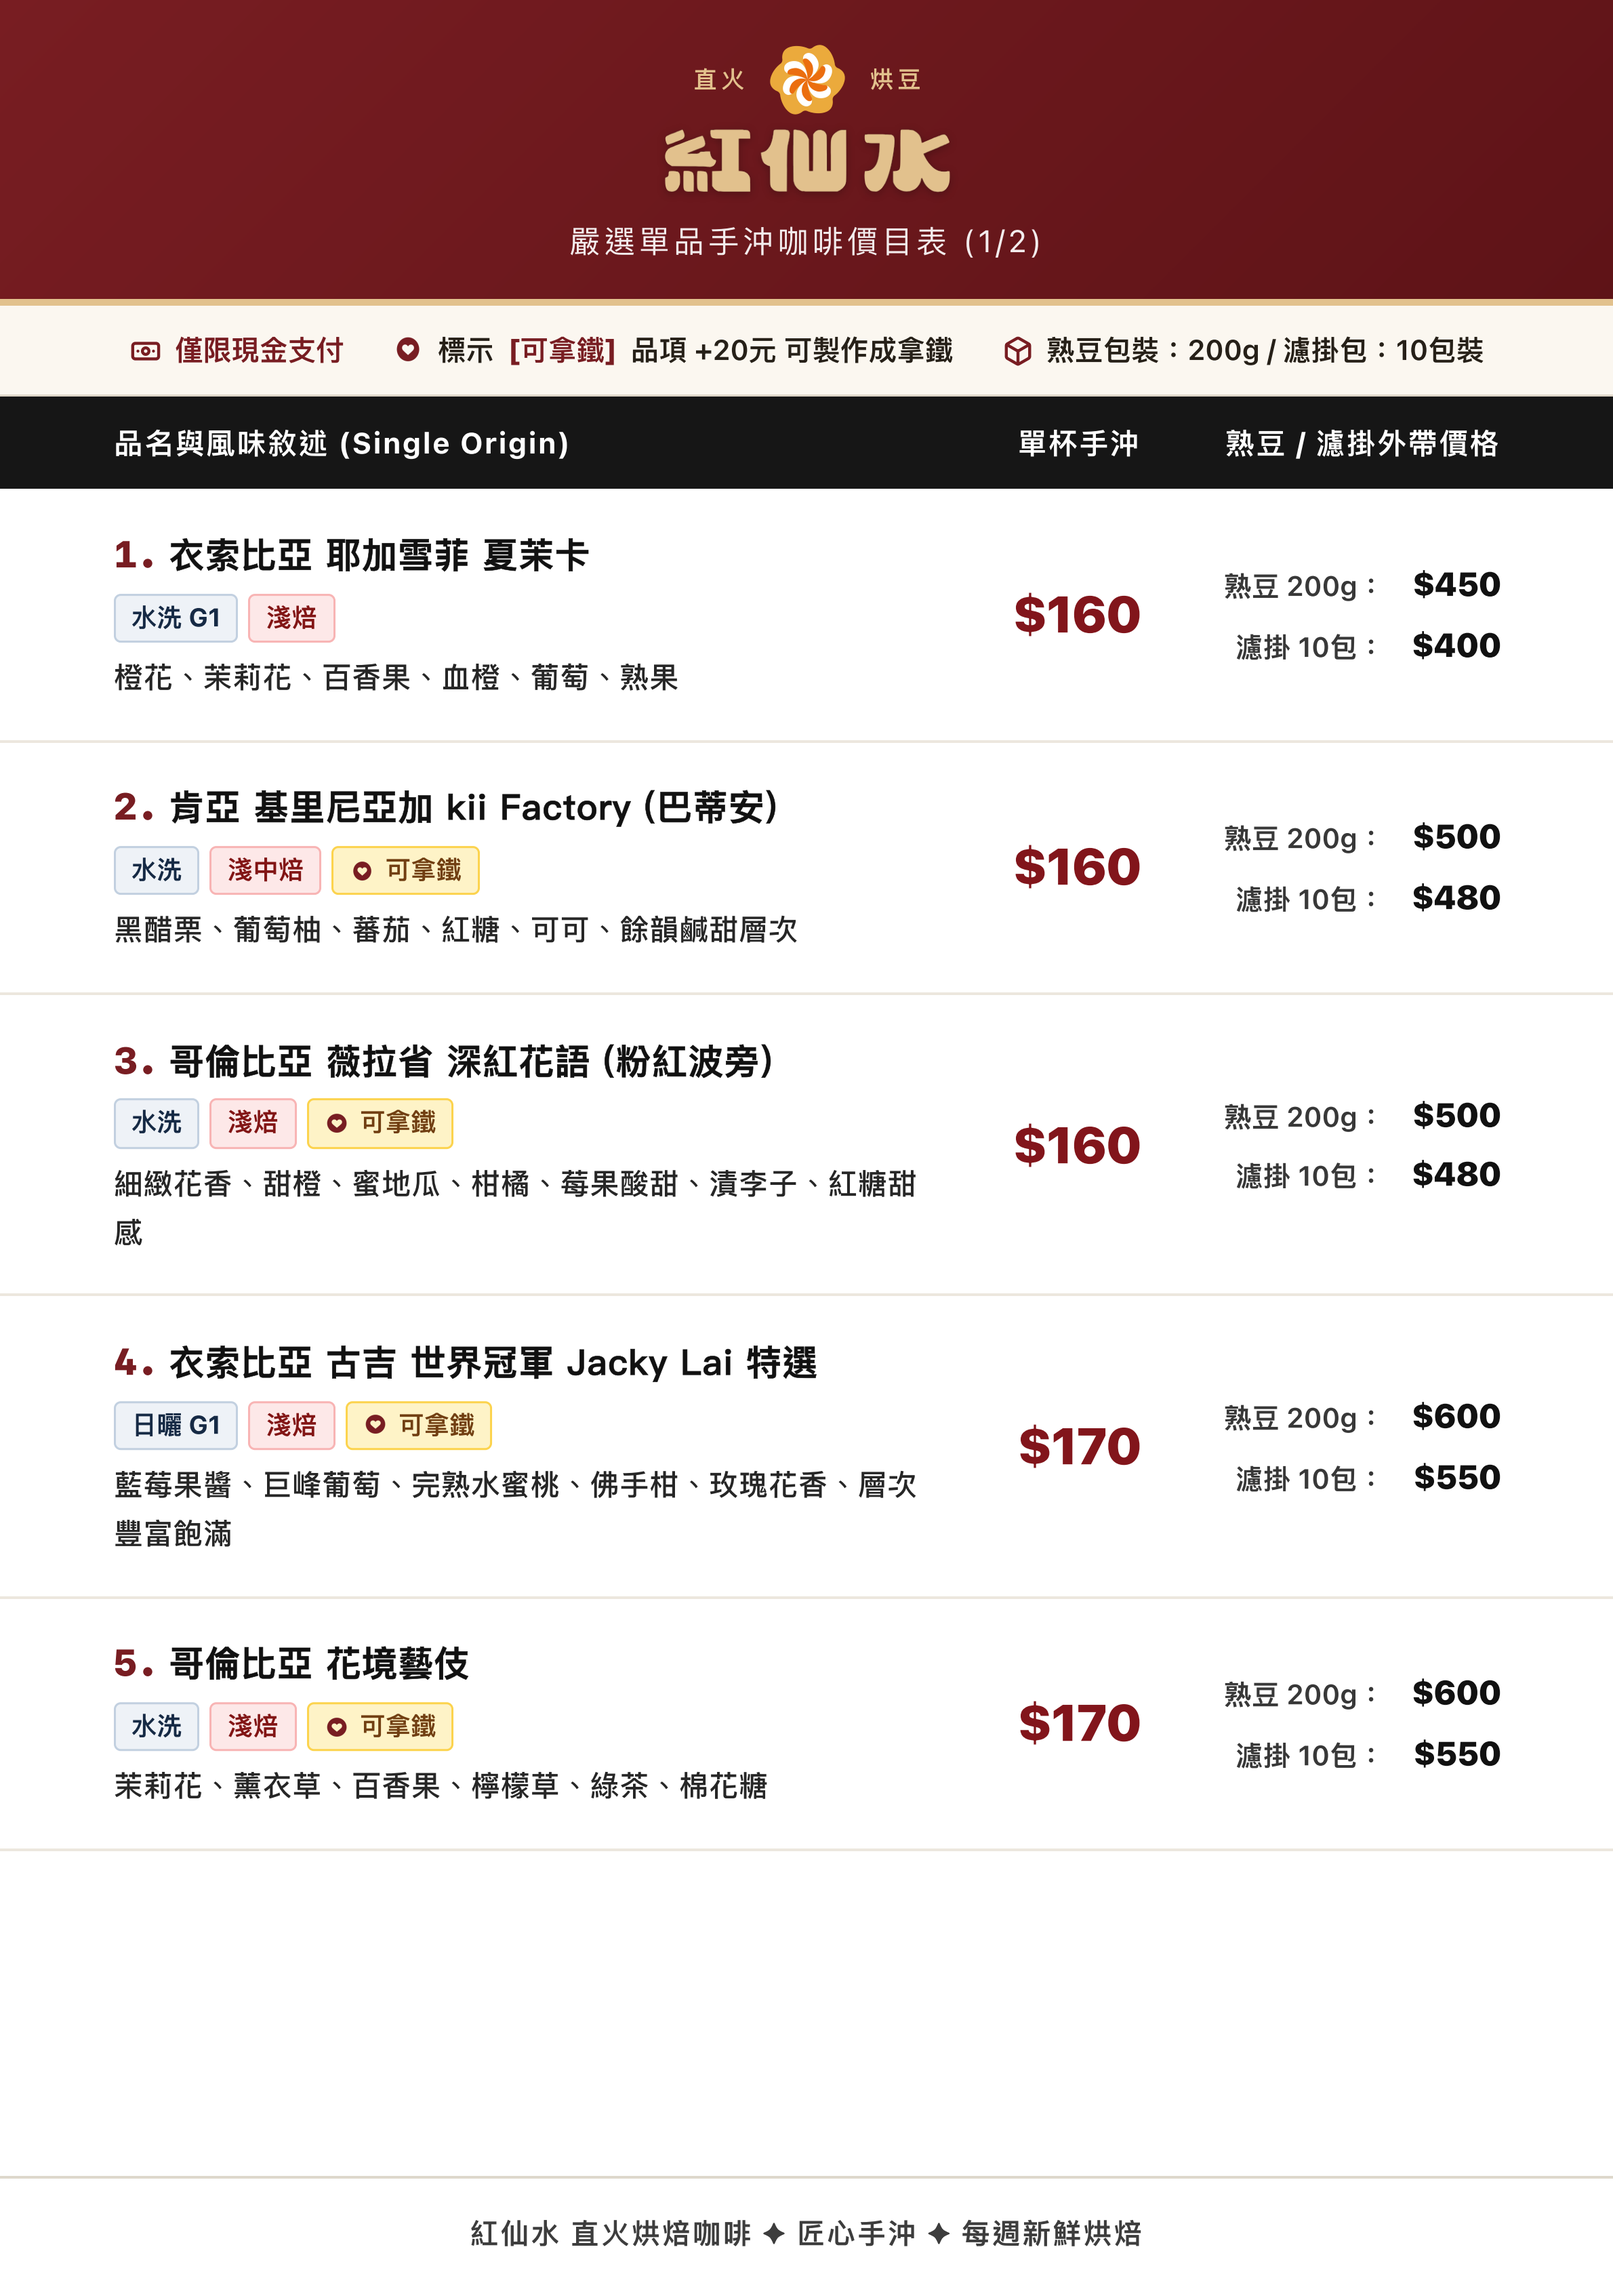
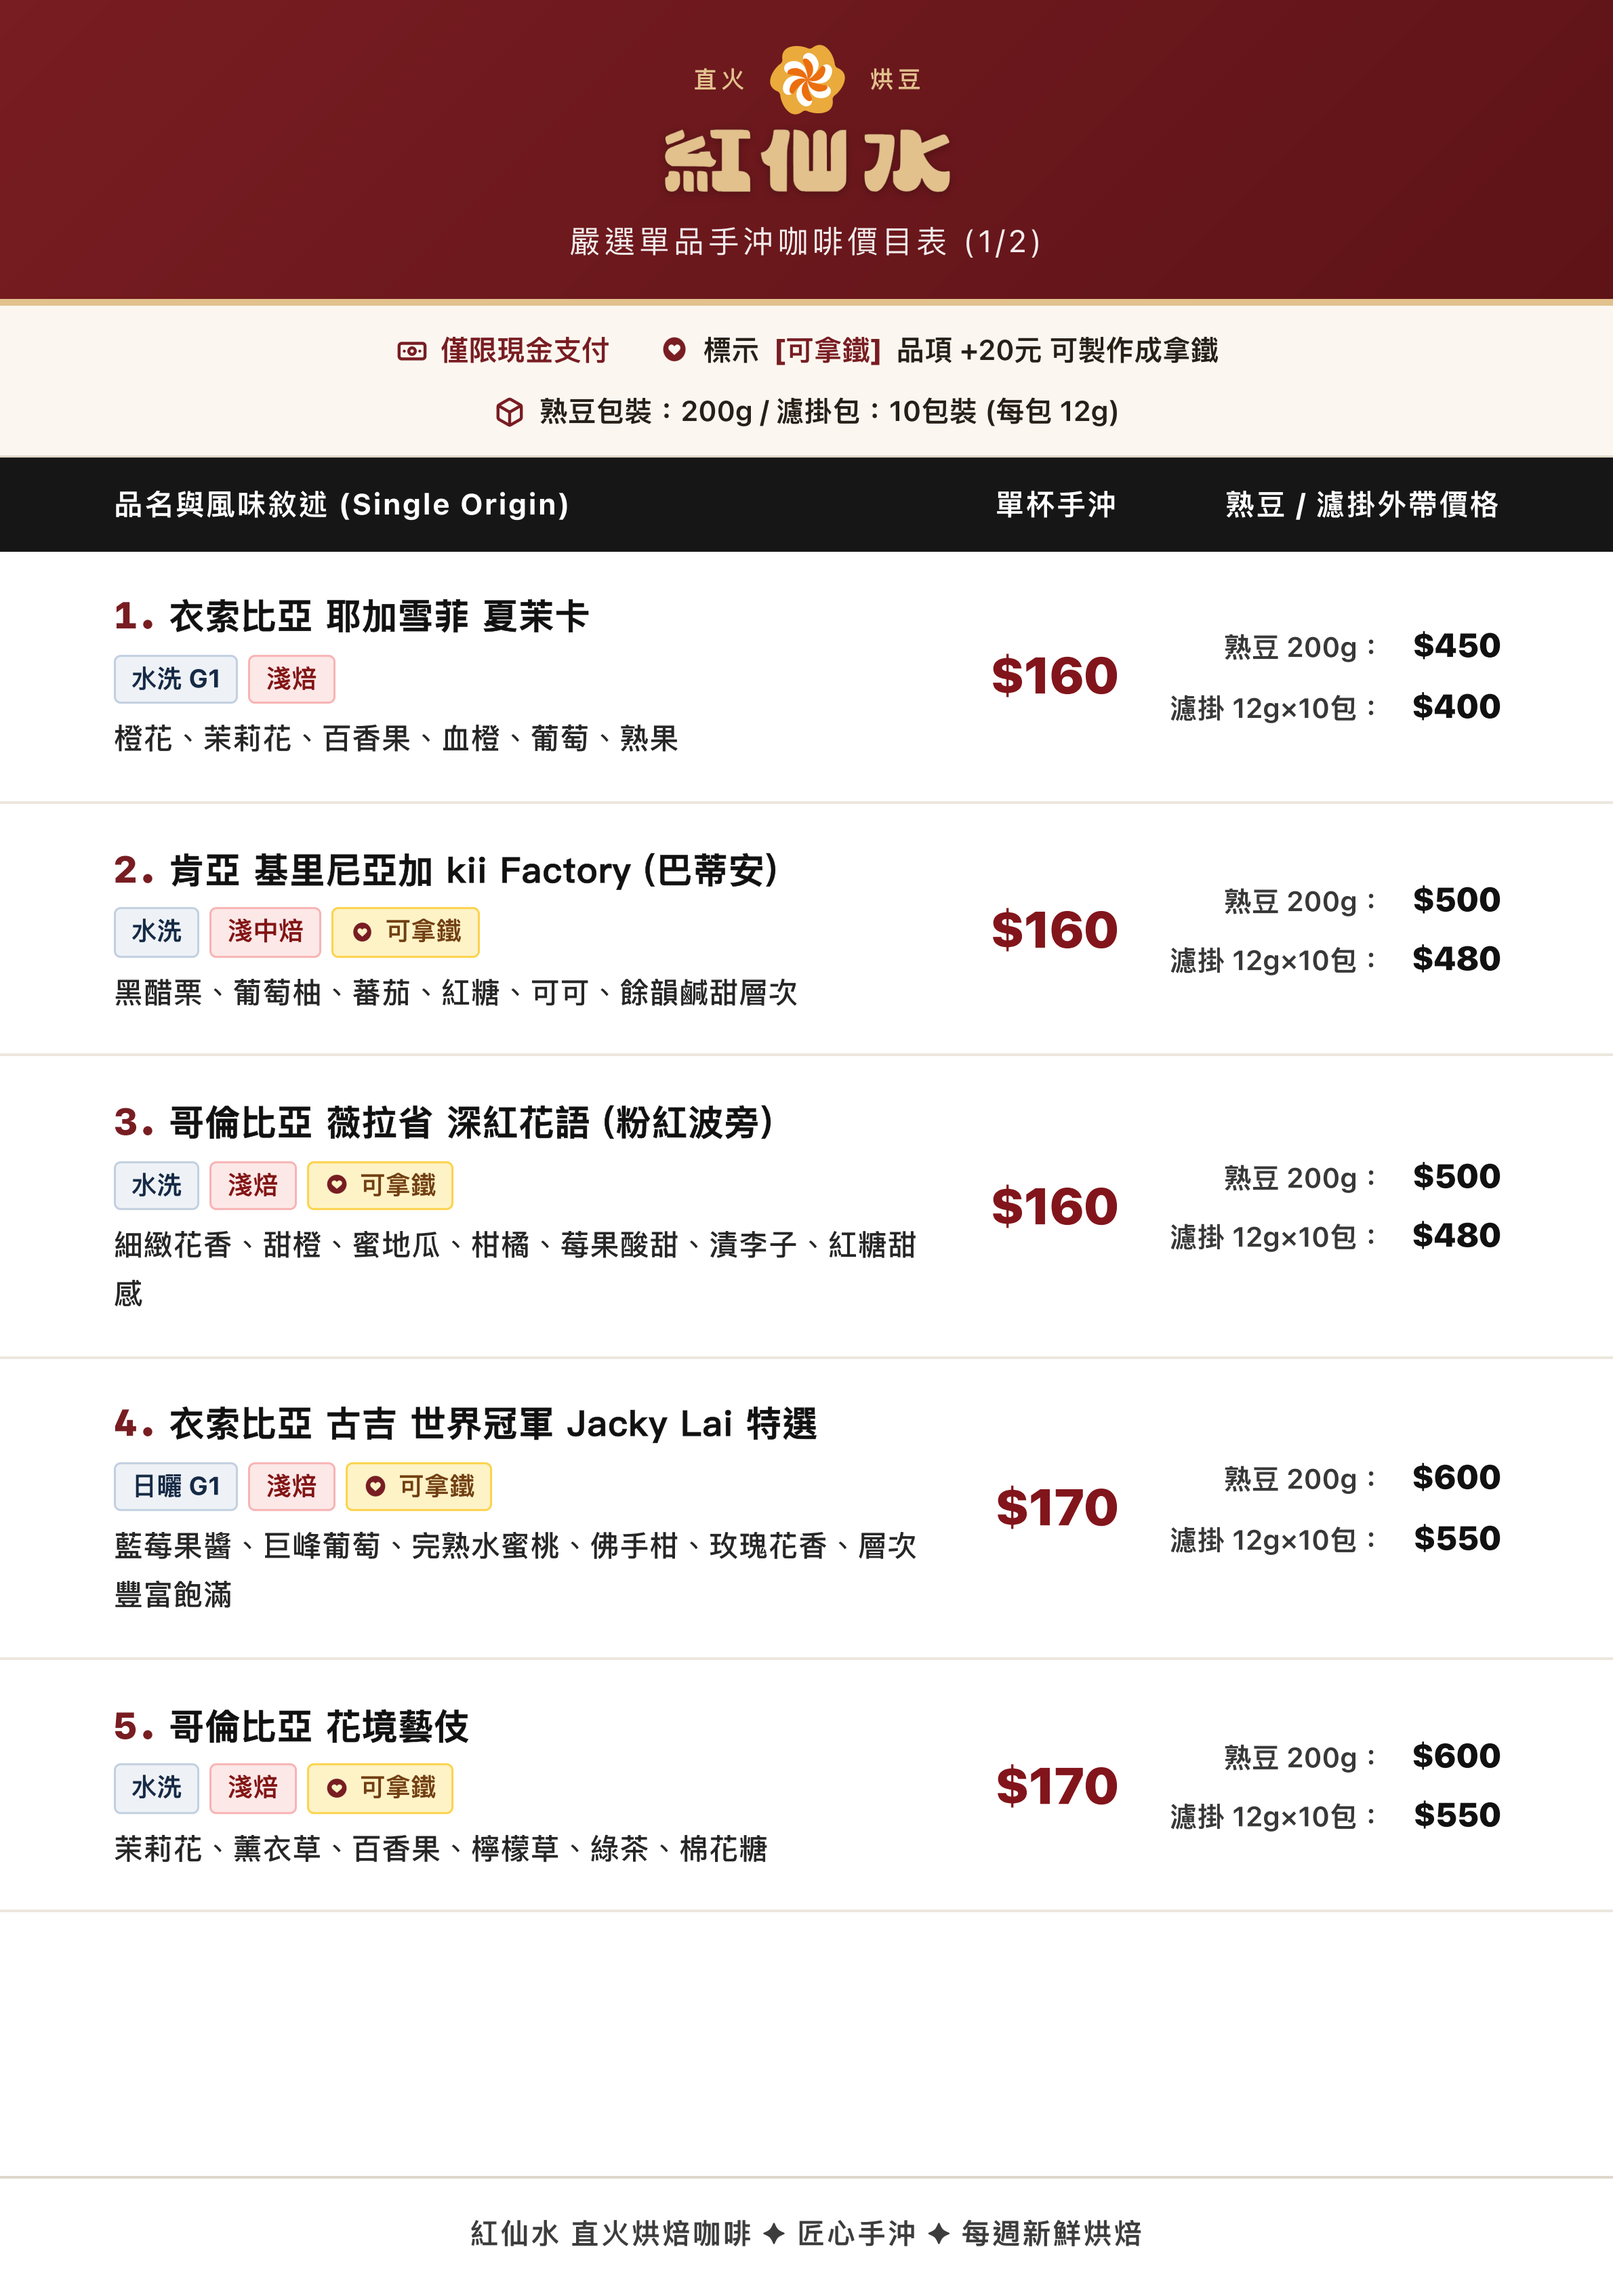
feat(layout): add 12g drip label and rebalance 3-column spacing (72px/168px/gap 20px)

diff --git a/index.html b/index.html
@@ -482,7 +482,7 @@
                 <span class="hybrid-pkg-val">$${item.beansPrice200g}</span>
               </div>
               <div class="hybrid-pkg-row">
-                <span class="hybrid-pkg-label">濾掛 10包</span>
+                <span class="hybrid-pkg-label">濾掛 12g×10包</span>
                 <span class="hybrid-pkg-val">$${item.dripPrice10pk}</span>
               </div>
             </div>
@@ -647,7 +647,7 @@
                   <span class="pkg-val">$${item.beansPrice200g}</span>
                 </div>
                 <div class="pkg-row">
-                  <span class="pkg-label">濾掛 10包：</span>
+                  <span class="pkg-label">濾掛 12g×10包：</span>
                   <span class="pkg-val">$${item.dripPrice10pk}</span>
                 </div>
               </div>
@@ -728,7 +728,7 @@
                   <span class="pkg-val">$${item.beansPrice200g}</span>
                 </div>
                 <div class="pkg-row">
-                  <span class="pkg-label">濾掛 10包：</span>
+                  <span class="pkg-label">濾掛 12g×10包：</span>
                   <span class="pkg-val">$${item.dripPrice10pk}</span>
                 </div>
               </div>
@@ -754,7 +754,7 @@
         <section class="notice-bar">
           <div class="notice-item"><svg class="notice-icon" viewBox="0 0 24 24" fill="none" stroke="currentColor" stroke-width="2.2" stroke-linecap="round" stroke-linejoin="round" aria-hidden="true" focusable="false"><rect x="2" y="6" width="20" height="12" rx="2"/><circle cx="12" cy="12" r="2.5"/><path d="M6 12h.01M18 12h.01"/></svg> <span class="notice-badge">僅限現金支付</span></div>
           <div class="notice-item"><img src="./assets/badge_heart_wine.png" class="wine-notice-heart-icon" alt="愛心" aria-hidden="true"> 標示 <span class="notice-badge">[可拿鐵]</span> 品項 +20元 可製作成拿鐵</div>
-          <div class="notice-item"><svg class="notice-icon" viewBox="0 0 24 24" fill="none" stroke="currentColor" stroke-width="2.2" stroke-linecap="round" stroke-linejoin="round" aria-hidden="true" focusable="false"><path d="M21 16V8a2 2 0 0 0-1-1.73l-7-4a2 2 0 0 0-2 0l-7 4A2 2 0 0 0 3 8v8a2 2 0 0 0 1 1.73l7 4a2 2 0 0 0 2 0l7-4A2 2 0 0 0 21 16z"/><polyline points="3.27 6.96 12 12.01 20.73 6.96"/><line x1="12" y1="22.08" x2="12" y2="12"/></svg> 熟豆包裝：200g / 濾掛包：10包裝</div>
+          <div class="notice-item"><svg class="notice-icon" viewBox="0 0 24 24" fill="none" stroke="currentColor" stroke-width="2.2" stroke-linecap="round" stroke-linejoin="round" aria-hidden="true" focusable="false"><path d="M21 16V8a2 2 0 0 0-1-1.73l-7-4a2 2 0 0 0-2 0l-7 4A2 2 0 0 0 3 8v8a2 2 0 0 0 1 1.73l7 4a2 2 0 0 0 2 0l7-4A2 2 0 0 0 21 16z"/><polyline points="3.27 6.96 12 12.01 20.73 6.96"/><line x1="12" y1="22.08" x2="12" y2="12"/></svg> 熟豆包裝：200g / 濾掛包：10包裝 (每包 12g)</div>
         </section>
 
         <div class="table-header">

diff --git a/theme-hybrid.css b/theme-hybrid.css
@@ -112,8 +112,8 @@ body.theme-hybrid .hybrid-notice-heart-icon {
 /* 三欄式表格標頭 (Table Header) - 黑底白字大器錨定 */
 body.theme-hybrid .hybrid-table-header {
   display: grid;
-  grid-template-columns: minmax(0, 1fr) 74.7px 152.9px;
-  column-gap: 13.6px;
+  grid-template-columns: minmax(0, 1fr) 72px 168px;
+  column-gap: 20px;
   align-items: center;
   padding: 12.7px 18.7px;
   background-color: #111111;
@@ -149,8 +149,8 @@ body.theme-hybrid .hybrid-coffee-list {
 /* 單一品項橫列 (3 欄) - 乾淨白卡，無次級內框 */
 body.theme-hybrid .hybrid-item-row {
   display: grid;
-  grid-template-columns: minmax(0, 1fr) 74.7px 152.9px;
-  column-gap: 13.6px;
+  grid-template-columns: minmax(0, 1fr) 72px 168px;
+  column-gap: 20px;
   align-items: center;
   padding: 13.6px 18.7px;
   background: #ffffff;

diff --git a/style.css b/style.css
@@ -654,8 +654,8 @@ body.mode-continuous .sheet-page-indicator {
   background-color: #161616;
   color: #ffffff;
   display: grid;
-  grid-template-columns: minmax(0, 1fr) 80px 152.9px;
-  column-gap: 24px;
+  grid-template-columns: minmax(0, 1fr) 72px 168px;
+  column-gap: 20px;
   padding: 12.7px 56px;
   font-size: 1.05rem;
   font-weight: 700;
@@ -686,8 +686,8 @@ body.mode-continuous .sheet-page-indicator {
 
 .coffee-item-row {
   display: grid;
-  grid-template-columns: minmax(0, 1fr) 80px 152.9px;
-  column-gap: 24px;
+  grid-template-columns: minmax(0, 1fr) 72px 168px;
+  column-gap: 20px;
   padding: 14.4px 56px;
   background: transparent;
   border: none;

diff --git a/data.js b/data.js
@@ -19,7 +19,7 @@ window.COFFEE_MENU_DATA = {
   notices: [
     { type: "cash", text: "僅限現金支付" },
     { type: "latte", text: "標示 [可拿鐵] 品項 +20元 可製作成拿鐵" },
-    { type: "package", text: "熟豆包裝：200g / 濾掛包：10包裝" }
+    { type: "package", text: "熟豆包裝：200g / 濾掛包：10包裝 (每包 12g)" }
   ],
 
   items: [
